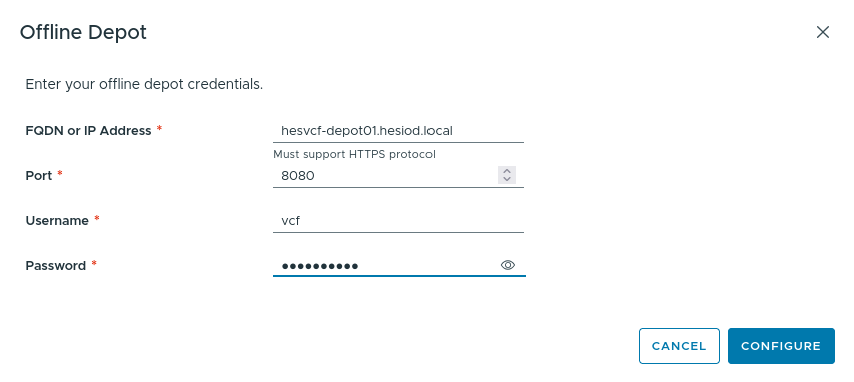
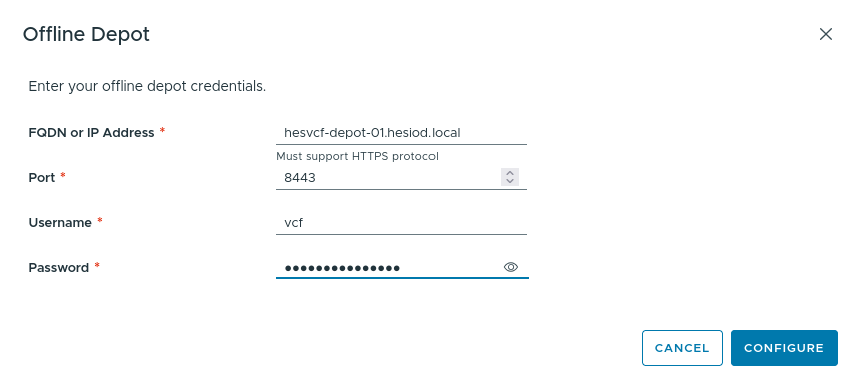
nginx rproxy v2

diff --git a/README.md b/README.md
@@ -124,7 +124,7 @@ cd hesiod-vcf9/
 python3 hesiod-vcf9.py -depot
 ```   
 
-Using a browser, you can now view your Depot at `http://<IP ADDRESS>:8080`
+Using a browser, you can now view your Depot at `https://<IP ADDRESS>:8443`
 
 
 * Step 6: Upload (sftp) binaries to their associated folder under `/usr/local/drop`
